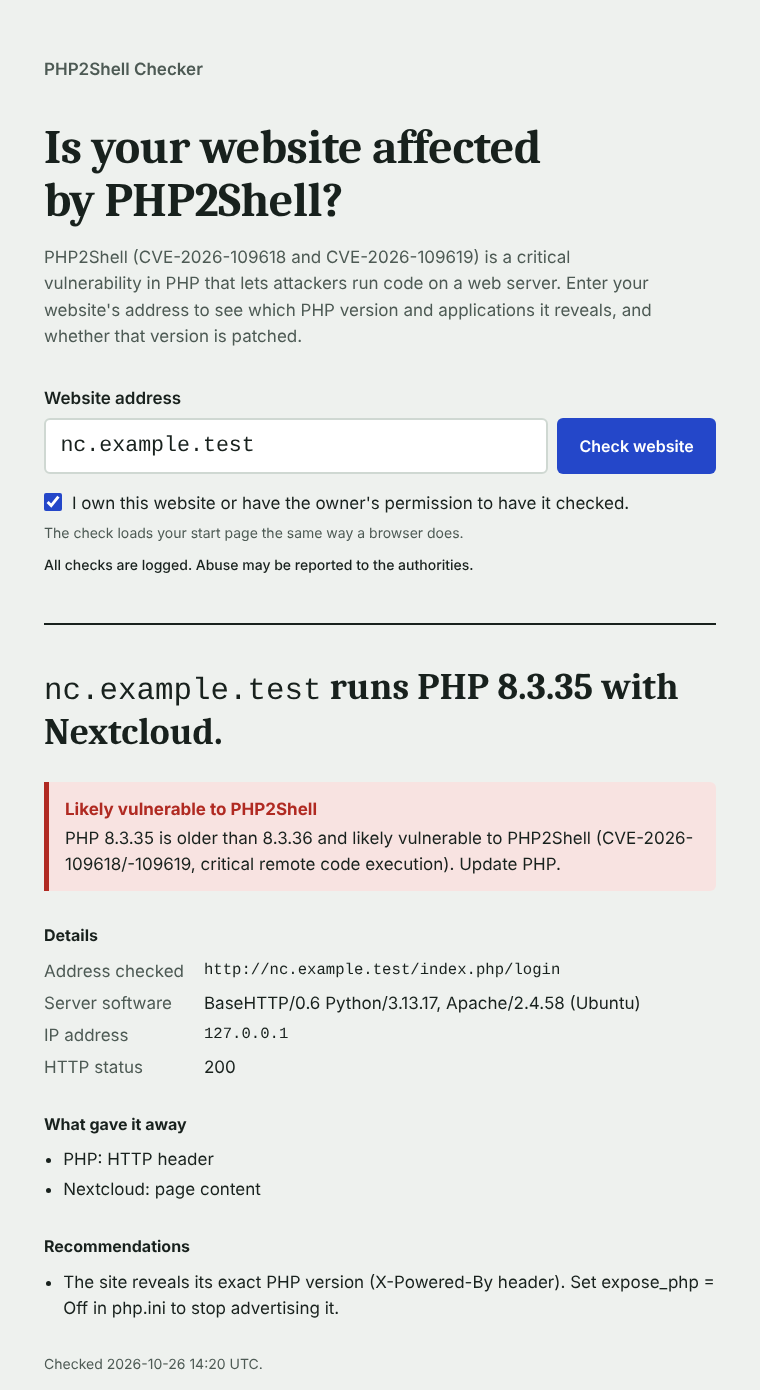
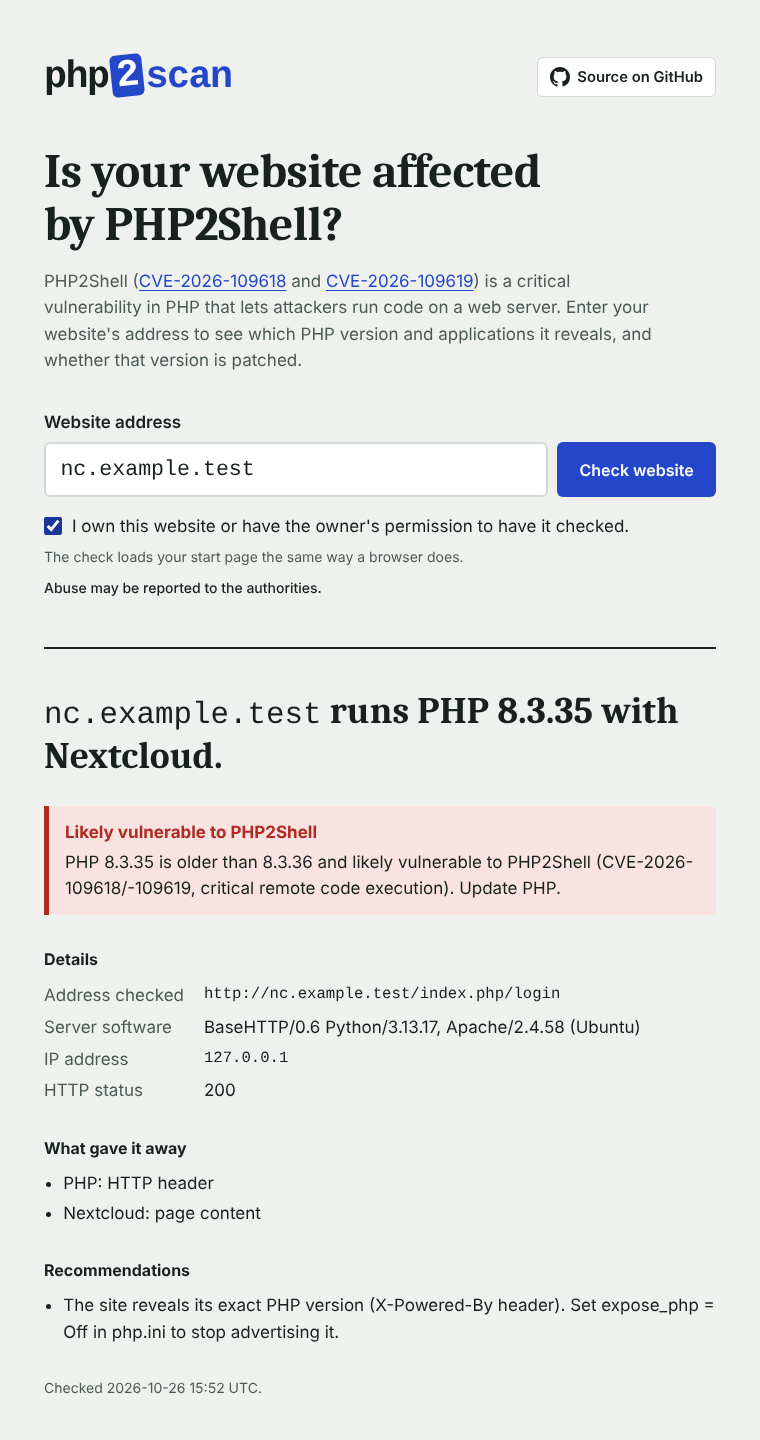
Wordmark in README

diff --git a/static/index.html b/static/index.html
@@ -11,12 +11,22 @@
 </head>
 <body>
 <main>
+  <nav class="topbar" aria-label="Site">
+    <a class="wordmark" href="/" aria-label="php2scan home"><span class="wm-php">php</span><span class="wm-2">2</span><span class="wm-scan">scan</span></a>
+    <a class="gh" href="https://github.com/akaihigurashi/php2scan" rel="noopener">
+      <svg viewBox="0 0 16 16" width="20" height="20" aria-hidden="true" focusable="false"><path fill="currentColor" d="M8 0C3.58 0 0 3.58 0 8c0 3.54 2.29 6.53 5.47 7.59.4.07.55-.17.55-.38 0-.19-.01-.82-.01-1.49-2.01.37-2.53-.49-2.69-.94-.09-.23-.48-.94-.82-1.13-.28-.15-.68-.52-.01-.53.63-.01 1.08.58 1.23.82.72 1.21 1.87.87 2.33.66.07-.52.28-.87.51-1.07-1.78-.2-3.64-.89-3.64-3.95 0-.87.31-1.59.82-2.15-.08-.2-.36-1.02.08-2.12 0 0 .67-.21 2.2.82.64-.18 1.32-.27 2-.27.68 0 1.36.09 2 .27 1.53-1.04 2.2-.82 2.2-.82.44 1.1.16 1.92.08 2.12.51.56.82 1.27.82 2.15 0 3.07-1.87 3.75-3.65 3.95.29.25.54.73.54 1.48 0 1.07-.01 1.93-.01 2.2 0 .21.15.46.55.38A8.01 8.01 0 0 0 16 8c0-4.42-3.58-8-8-8Z"/></svg>
+      <span>Source on GitHub</span>
+    </a>
+  </nav>
+
   <header class="intro">
-    <p class="site">php2scan</p>
     <h1>Is your website affected by&nbsp;PHP2Shell?</h1>
-    <p class="lede">PHP2Shell (CVE-2026-109618 and CVE-2026-109619) is a critical vulnerability
-      in PHP that lets attackers run code on a web server. Enter your website's address to see
-      which PHP version and applications it reveals, and whether that version is patched.</p>
+    <p class="lede">PHP2Shell
+      (<a href="https://nvd.nist.gov/vuln/detail/CVE-2026-109618" rel="noopener">CVE-2026-109618</a>
+      and <a href="https://nvd.nist.gov/vuln/detail/CVE-2026-109619" rel="noopener">CVE-2026-109619</a>)
+      is a critical vulnerability in PHP that lets attackers run code on a web server. Enter your
+      website's address to see which PHP version and applications it reveals, and whether that
+      version is patched.</p>
   </header>
 
   <form id="check" novalidate>

diff --git a/static/style.css b/static/style.css
@@ -64,11 +64,61 @@ a { color: var(--accent); }
 
 /* intro ---------------------------------------------------------------- */
 
-.site {
-  margin: 0 0 2.5rem;
-  font-weight: 600;
-  color: var(--ink-soft);
+/* top bar: wordmark + GitHub ------------------------------------------- */
+
+.topbar {
+  display: flex;
+  align-items: center;
+  justify-content: space-between;
+  gap: 1rem;
+  flex-wrap: wrap;
+  margin: 0 0 3rem;
 }
+
+.wordmark {
+  display: inline-flex;
+  align-items: baseline;
+  font: 700 clamp(1.9rem, 5vw, 2.4rem)/1 var(--mono);
+  letter-spacing: -0.04em;
+  color: var(--ink);
+  text-decoration: none;
+}
+
+.wordmark .wm-2 {
+  display: inline-block;
+  margin: 0 0.06em;
+  padding: 0.04em 0.14em 0.06em;
+  border-radius: 0.14em;
+  background: var(--accent);
+  color: var(--accent-ink);
+  transform: translateY(-0.04em) rotate(-6deg);
+}
+
+.wordmark .wm-scan { color: var(--accent); }
+
+.wordmark:hover .wm-2 { transform: translateY(-0.04em) rotate(0deg); }
+
+@media (prefers-reduced-motion: no-preference) {
+  .wordmark .wm-2 { transition: transform 0.2s ease; }
+}
+
+.gh {
+  display: inline-flex;
+  align-items: center;
+  gap: 0.45rem;
+  font-weight: 600;
+  font-size: 0.925rem;
+  color: var(--ink);
+  text-decoration: none;
+  padding: 0.45rem 0.75rem;
+  border: 1.5px solid var(--line);
+  border-radius: 6px;
+  background: var(--surface);
+}
+
+.gh:hover { border-color: var(--ink-soft); }
+
+.lede a { color: var(--accent); text-underline-offset: 0.15em; white-space: nowrap; }
 
 h1 {
   font-family: var(--serif);

diff --git a/README.md b/README.md
@@ -1,4 +1,9 @@
-# php2scan
+<h1>
+  <picture>
+    <source media="(prefers-color-scheme: dark)" srcset="docs/logo-dark.png">
+    <img alt="php2scan" src="docs/logo-light.png" width="334">
+  </picture>
+</h1>
 
 A self-hosted web page that checks whether a website is affected by **PHP2Shell**
 (CVE-2026-109618 / CVE-2026-109619), the critical remote code execution
